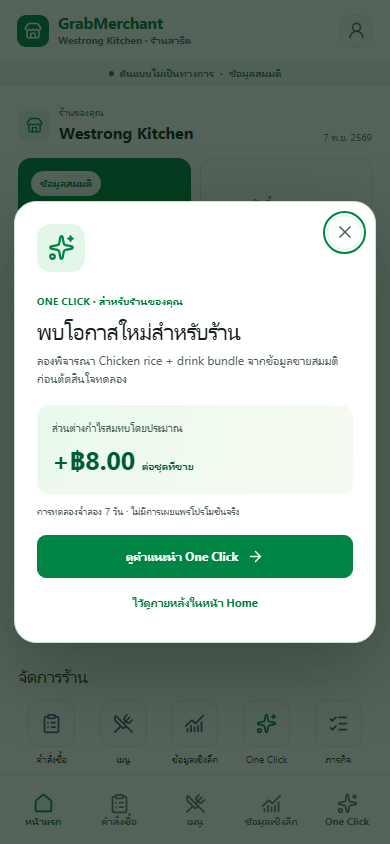
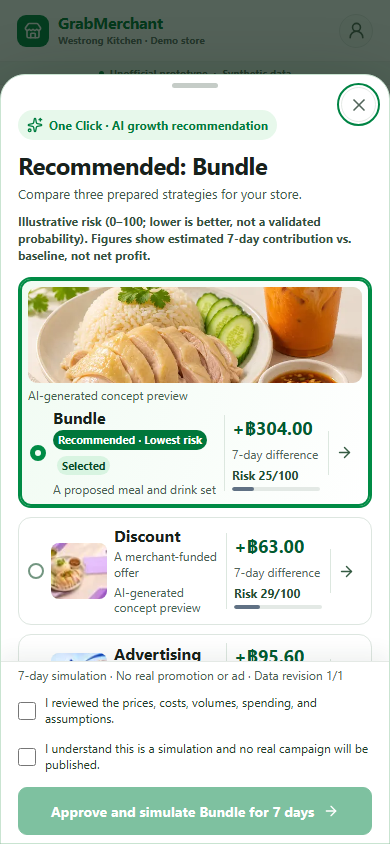
Highlight One Click opportunity and open recommendation on entry

diff --git a/frontend/components/judge-demo.tsx b/frontend/components/judge-demo.tsx
@@ -25,6 +25,7 @@ export function JudgeDemo() {
   const recommendationRef = useRef<HTMLDivElement>(null);
   useEffect(() => { setState(loadDemoState()); setLoaded(true); }, []);
   useEffect(() => { if (loaded) saveDemoState(state); }, [loaded, state]);
+  useEffect(() => { if (state.view === "c1-home") requestAnimationFrame(() => document.querySelector(".judge-main .home-for-you")?.scrollIntoView({ behavior: "auto", block: "start" })); }, [state.view]);
   useEffect(() => {
     if (state.view !== "recommendation") return;
     recommendationRef.current?.querySelector<HTMLButtonElement>("button")?.focus();
@@ -84,7 +85,7 @@ export function JudgeDemo() {
 
       </main>
       {state.view === "recommendation" && <div id="judge-consent-footer" className="judge-approval-footer"><small>7-day simulation · No real promotion or ad</small><label><input type="checkbox" checked={state.c1.consentInputs} onChange={event => update(old => ({ ...old, c1: { ...old.c1, consentInputs: event.target.checked } }))} /><span>I reviewed the prices, costs, volumes, spending, and assumptions.</span></label><label><input type="checkbox" checked={state.c1.consentSimulation} onChange={event => update(old => ({ ...old, c1: { ...old.c1, consentSimulation: event.target.checked } }))} /><span>I understand this is a simulation and no real campaign will be published.</span></label><button type="button" className="primary-button" disabled={!state.c1.consentInputs || !state.c1.consentSimulation || Boolean(state.c1.approved)} onClick={() => update(old => ({ ...old, view: "processing", c1: { ...old.c1, approved: old.c1.selected, resultReady: false, reviewed: false } }))}>{state.c1.approved ? "Mission already approved" : `Approve and simulate ${strategyNames[chosen.strategy_id]} for 7 days`} <ArrowRight size={16} /></button></div>}
-      <nav className="judge-bottom-nav" aria-label="Demo navigation"><button type="button" className={state.view === "home" ? "is-current" : ""} onClick={() => go("home")}>Home</button><button type="button" className={state.view.startsWith("c1") || ["recommendation", "comparison", "details", "processing", "results"].includes(state.view) ? "is-current" : ""} onClick={() => go(state.c1.resultReady ? "results" : state.c1.approved ? "processing" : "recommendation")}>One Click</button><button type="button" className={["connections", "workspace"].includes(state.view) ? "is-current" : ""} onClick={() => go("connections")}>Connector</button></nav>
+      <nav className="judge-bottom-nav" aria-label="Demo navigation"><button type="button" className={state.view === "home" || state.view === "c1-home" ? "is-current" : ""} onClick={() => go("home")}>Home</button><button type="button" className={["recommendation", "comparison", "details", "processing", "results"].includes(state.view) ? "is-current" : ""} onClick={() => go(state.c1.resultReady ? "results" : state.c1.approved ? "processing" : "recommendation")}>One Click</button><button type="button" className={["connections", "workspace"].includes(state.view) ? "is-current" : ""} onClick={() => go("connections")}>Connector</button></nav>
     </div><p className="judge-footer">GrabSpark 2026 · Unofficial concept preview</p>
   </div>;
 }
@@ -98,7 +99,7 @@ function JudgeMerchantHome({ approvedStrategy, resultReady, reviewed, onOneClick
     <div className="home-store-context"><div className="home-store-pick"><span className="home-store-icon"><Store size={17} /></span><span><small>Your store</small><strong>Westrong Kitchen</strong></span></div><span className="home-date">{thaiDate(dashboard.today.from)}</span></div>
     <section id="judge-orders" className="merchant-highlights" aria-label="Today's synthetic overview"><div className="highlight-orders"><span className="highlight-pill">Synthetic data</span><strong>{dashboard.today.orders}</strong><span>Completed orders today</span></div><div className="highlight-sales"><span>Sales today</span><strong>{baht(dashboard.today.gmv)}</strong><small>GMV · {dashboard.today.orders} orders</small></div></section>
     <div className="home-aov">Average order value <strong>{baht(dashboard.today.aov)}</strong></div>
-    <section className="home-for-you" aria-labelledby="judge-for-you-heading"><div className="home-feature-heading"><h2 id="judge-for-you-heading">For your store</h2><span>One Click</span></div><article className="home-recommendation"><div className="home-recommendation-top"><span className="native-ai-icon"><Sparkles size={18} /></span><span><strong>{approved ? "One Click · Simulated mission" : "One Click · New opportunity"}</strong><small>{approved ? reviewed ? "Result reviewed" : resultReady ? "Result ready for review" : "Approved in this demo session" : "Compare 3 strategies · 1 recommendation"}</small></span></div><div className="home-recommendation-visual"><StrategyVisual strategyId={approvedStrategy ?? recommendation.strategy_id} variant="hero" /><small>Concept only · Not an actual menu photo or published campaign</small></div><h3>{opportunityTitle}</h3><p>{approved ? "Your selected strategy stays in this browser session. No real promotion was published." : `Lowest illustrative modeled risk: ${recommendation.risk_score}/100`}</p><div className="home-recommendation-impact"><span>{approved ? "Mission status" : "Estimated 7-day contribution difference"}</span><strong className={approved ? "status-copy" : undefined}>{approved ? reviewed ? "Result reviewed" : resultReady ? "Simulated result ready" : "Approved for simulation" : baht(recommendation.estimated_difference, true)}</strong></div><button type="button" className="home-recommendation-link" onClick={onOneClick}>{actionLabel} <ArrowRight size={17} /></button><small className="home-recommendation-disclaimer">Simulation only · No real promotion is published</small></article></section>
+    <section className="home-for-you" aria-labelledby="judge-for-you-heading"><div className="home-feature-heading"><h2 id="judge-for-you-heading">For your store</h2><span>One Click</span></div><article className={`home-recommendation${approved ? "" : " is-opportunity"}`}><div className="home-recommendation-top"><span className="native-ai-icon"><Sparkles size={18} /></span><span><strong>{approved ? "One Click · Simulated mission" : "One Click · New opportunity"}</strong><small>{approved ? reviewed ? "Result reviewed" : resultReady ? "Result ready for review" : "Approved in this demo session" : "Compare 3 strategies · 1 recommendation"}</small></span></div><div className="home-recommendation-visual"><StrategyVisual strategyId={approvedStrategy ?? recommendation.strategy_id} variant="hero" /><small>Concept only · Not an actual menu photo or published campaign</small></div><h3>{opportunityTitle}</h3><p>{approved ? "Your selected strategy stays in this browser session. No real promotion was published." : `Lowest illustrative modeled risk: ${recommendation.risk_score}/100`}</p><div className="home-recommendation-impact"><span>{approved ? "Mission status" : "Estimated 7-day contribution difference"}</span><strong className={approved ? "status-copy" : undefined}>{approved ? reviewed ? "Result reviewed" : resultReady ? "Simulated result ready" : "Approved for simulation" : baht(recommendation.estimated_difference, true)}</strong></div><button type="button" className="home-recommendation-link" onClick={onOneClick}>{actionLabel} <ArrowRight size={17} /></button><small className="home-recommendation-disclaimer">Simulation only · No real promotion is published</small></article></section>
     <section className="merchant-shortcuts" aria-labelledby="judge-shortcuts-heading"><h2 id="judge-shortcuts-heading">Manage your store</h2><nav className="merchant-shortcut-grid" aria-label="Store shortcuts"><button type="button" onClick={() => jumpTo("judge-orders")}><span><ClipboardList size={21} /></span>Orders</button><button type="button" onClick={() => jumpTo("judge-menu")}><span><UtensilsCrossed size={21} /></span>Menu</button><button type="button" onClick={() => jumpTo("judge-insights")}><span><ChartNoAxesCombined size={21} /></span>Insights</button><button type="button" onClick={onOneClick}><span><Sparkles size={21} /></span>One Click</button><button type="button" onClick={onConnector}><span><Link2 size={21} /></span>AI Connections</button></nav></section>
     <section id="judge-insights" className="home-compact-section" aria-labelledby="judge-trend-heading"><div className="compact-heading"><div><span>INSIGHTS · SYNTHETIC</span><h2 id="judge-trend-heading">Sales over the past 6 months</h2></div></div><TrendBars months={dashboard.monthly_trend} /></section>
     <section id="judge-menu" className="home-compact-section" aria-labelledby="judge-top-heading"><div className="compact-heading"><div><span>TOP MENU ITEMS</span><h2 id="judge-top-heading">Popular items</h2></div></div><ol className="compact-ranking">{dashboard.top_items.slice(0, 3).map((item, index) => <li key={item.menu_item_id}><span className="rank">{index + 1}</span><span><strong>{item.name}</strong><small>{item.units} sold</small></span><b>{baht(item.gmv)}</b></li>)}</ol></section>

diff --git a/frontend/app/page.tsx b/frontend/app/page.tsx
@@ -33,7 +33,7 @@ export default async function Home({ searchParams }: { searchParams: Promise<{ o
     <section className="merchant-highlights" aria-label="Today's overview"><div className="highlight-orders"><span className="highlight-pill">Synthetic data</span><strong>{data.today.orders}</strong><span>Completed orders today</span></div><div className="highlight-sales"><span>Sales today</span><strong>{baht(data.today.gmv)}</strong><small>GMV · {data.today.orders} orders</small></div></section>
     <div className="home-aov">Average order value <strong>{baht(data.today.aov)}</strong></div>
 
-    <section className="home-for-you" aria-labelledby="for-you-heading"><div className="home-feature-heading"><h2 id="for-you-heading">For your store</h2><span>One Click</span></div><article className="home-recommendation"><div className="home-recommendation-top"><span className="native-ai-icon"><Sparkles size={18} /></span><span><strong>One Click · New opportunity</strong><small>Compare 3 strategies · 1 recommendation</small></span></div>{homeVisualStrategy && <div className="home-recommendation-visual"><StrategyVisual strategyId={homeVisualStrategy} variant="hero" /><small>Concept only · Not an actual menu photo or published campaign</small></div>}{data.opportunity ? <><h3>{recommendedCase?.strategy_id === "bundle" && /chicken rice.*drink/i.test(comparison?.proposed.label ?? "") ? "Try a chicken rice + drink bundle" : recommendedCase ? `Try ${recommendedCase.description.toLowerCase()}` : data.opportunity.title}</h3><p>{recommendedCase ? `Lowest illustrative modeled risk: ${recommendedCase.risk_score}/100` : data.opportunity.rationale}</p>{recommendedCase && <div className="home-recommendation-impact"><span>Estimated 7-day contribution difference</span><strong>{baht(recommendedCase.estimated_difference, true)}</strong></div>}<Link href={`/opportunity?id=${data.opportunity.id}`} className="home-recommendation-link">View recommendation <ArrowRight size={17} /></Link></> : latest ? <><h3>Track your mission</h3><p>{latest.title}</p><div className="home-recommendation-impact"><span>Status</span><strong className="status-copy">{latest.status === "completed" ? "Simulated result ready" : latest.status === "reviewed" ? "Simulated result reviewed" : latest.status === "approved" ? "Simulation approved" : latest.status}</strong></div><Link href={`/missions/${latest.id}`} className="home-recommendation-link">Track mission <ArrowRight size={17} /></Link></> : <><h3>No new opportunities</h3><p>Review previous simulated missions in One Click</p><Link href="/ai" className="home-recommendation-link">Open One Click <ArrowRight size={17} /></Link></>}<small className="home-recommendation-disclaimer">Simulation only · No real promotion is published</small></article></section>
+    <section className="home-for-you" aria-labelledby="for-you-heading"><div className="home-feature-heading"><h2 id="for-you-heading">For your store</h2><span>One Click</span></div><article className={`home-recommendation${data.opportunity ? " is-opportunity" : ""}`}><div className="home-recommendation-top"><span className="native-ai-icon"><Sparkles size={18} /></span><span><strong>One Click · New opportunity</strong><small>Compare 3 strategies · 1 recommendation</small></span></div>{homeVisualStrategy && <div className="home-recommendation-visual"><StrategyVisual strategyId={homeVisualStrategy} variant="hero" /><small>Concept only · Not an actual menu photo or published campaign</small></div>}{data.opportunity ? <><h3>{recommendedCase?.strategy_id === "bundle" && /chicken rice.*drink/i.test(comparison?.proposed.label ?? "") ? "Try a chicken rice + drink bundle" : recommendedCase ? `Try ${recommendedCase.description.toLowerCase()}` : data.opportunity.title}</h3><p>{recommendedCase ? `Lowest illustrative modeled risk: ${recommendedCase.risk_score}/100` : data.opportunity.rationale}</p>{recommendedCase && <div className="home-recommendation-impact"><span>Estimated 7-day contribution difference</span><strong>{baht(recommendedCase.estimated_difference, true)}</strong></div>}<Link href={`/opportunity?id=${data.opportunity.id}`} className="home-recommendation-link">View recommendation <ArrowRight size={17} /></Link></> : latest ? <><h3>Track your mission</h3><p>{latest.title}</p><div className="home-recommendation-impact"><span>Status</span><strong className="status-copy">{latest.status === "completed" ? "Simulated result ready" : latest.status === "reviewed" ? "Simulated result reviewed" : latest.status === "approved" ? "Simulation approved" : latest.status}</strong></div><Link href={`/missions/${latest.id}`} className="home-recommendation-link">Track mission <ArrowRight size={17} /></Link></> : <><h3>No new opportunities</h3><p>Review previous simulated missions in One Click</p><Link href="/ai" className="home-recommendation-link">Open One Click <ArrowRight size={17} /></Link></>}<small className="home-recommendation-disclaimer">Simulation only · No real promotion is published</small></article></section>
 
     <section className="merchant-shortcuts" aria-labelledby="shortcuts-heading"><h2 id="shortcuts-heading">Manage your store</h2><nav className="merchant-shortcut-grid" aria-label="Store shortcuts"><Link href="/orders"><span><ClipboardList size={21} /></span>Orders</Link><Link href="/menu"><span><UtensilsCrossed size={21} /></span>Menu</Link><Link href="/performance"><span><ChartNoAxesCombined size={21} /></span>Insights</Link><Link href="/ai"><span><Sparkles size={21} /></span>One Click</Link><Link href="/missions"><span><ListChecks size={21} /></span>Missions</Link></nav></section>
 

diff --git a/frontend/app/fidelity.css b/frontend/app/fidelity.css
@@ -13,6 +13,15 @@ body { font-family:"Leelawadee UI", "Noto Sans Thai", Tahoma, "Segoe UI", sans-s
 .home-recommendation-visual .strategy-visual.is-hero .strategy-visual-image { height:90px; }
 .home-recommendation-visual .strategy-visual-caption { font-size:12px; font-weight:700; }
 .home-recommendation-visual > small { display:block; margin-top:2px; color:#536b5b; font-size:12px; line-height:1.3; }
+.home-for-you:has(.is-opportunity) .home-feature-heading > span { padding:5px 9px; border-radius:20px; background:#e2f6e9; color:#006c35; font-weight:800; }
+.home-recommendation.is-opportunity { border:1.5px solid #28a65d; background:linear-gradient(145deg,#f3fcf5 0%,#fff 55%); box-shadow:0 7px 22px #16743c1c; }
+.home-recommendation.is-opportunity .home-recommendation-top strong { font-size:13px; font-weight:850; }
+.home-recommendation.is-opportunity h3 { font-size:18px; font-weight:800; }
+.home-recommendation.is-opportunity .home-recommendation-impact strong { font-size:20px; font-weight:850; }
+.home-recommendation.is-opportunity .home-recommendation-link { min-height:46px; margin-top:13px; padding:0 13px; border:1px solid #008442; border-radius:9px; background:#008742; color:#fff; font-size:13px; font-weight:800; }
+.home-recommendation.is-opportunity .home-recommendation-link:hover,.home-recommendation.is-opportunity .home-recommendation-link:focus-visible { background:#006d36; }
+.home-recommendation.is-opportunity .home-recommendation-link:focus-visible { outline:3px solid #004d29; outline-offset:2px; }
+.home-recommendation.is-opportunity .home-recommendation-disclaimer { margin-top:9px; }
 .merchant-shortcuts { margin-top:24px; }.merchant-shortcut-grid { display:grid; grid-template-columns:repeat(5,1fr); gap:4px; margin-top:13px; }.merchant-shortcut-grid a { display:flex; align-items:center; flex-direction:column; gap:6px; text-align:center; color:#2e3931; font-size:10px; line-height:1.25; }.merchant-shortcut-grid a > span { width:47px; height:47px; display:grid; place-items:center; border:1px solid #e1e6e2; border-radius:11px; color:#425977; background:#fff; }.merchant-shortcut-grid a:nth-child(4) > span { color:var(--green); }.merchant-shortcut-grid a:focus-visible > span,.merchant-shortcut-grid a:hover > span { border-color:var(--green); background:#f0faf2; }
 .home-compact-section { margin-top:28px; }.compact-heading h2 { font-size:17px; }.compact-heading span { font-size:10px; }.compact-ranking strong,.compact-ranking b { font-size:12px; }.compact-ranking small { font-size:10px; }.footnote { font-size:10px; }
 .native-page-header h1 { font-size:23px; }.native-page-header > p:last-child { font-size:12px; }.native-tabs a { font-size:12px; }.order-snapshot span:not(.order-snapshot-icon) { font-size:11px; }.order-snapshot strong { font-size:25px; }.native-list-row { font-size:12px; }.inline-limitation { font-size:11px; }.menu-overview-line { font-size:12px; }.menu-category-head h2 { font-size:16px; }.native-menu-item-copy strong { font-size:13px; }.native-menu-item-copy small,.availability { font-size:11px; }.native-menu-price { font-size:13px; }.insights-summary > span { font-size:12px; }.insights-summary > div span { font-size:11px; }.ai-native-opportunity h3 { font-size:17px; }.ai-native-opportunity p { font-size:12px; }.mission-row strong { font-size:12px; }.mission-row small { font-size:10px; }.journey-header h1,.tracking-page h1 { font-size:23px; }.journey-header p { font-size:12px; }.journey-panel h2,.outcome-section h2 { font-size:18px; }.journey-panel > p:not(.section-kicker) { font-size:12px; }.cost-field { font-size:12px; }

diff --git a/frontend/components/home-opportunity-popup.tsx b/frontend/components/home-opportunity-popup.tsx
@@ -41,15 +41,11 @@ export function HomeOpportunityPopup({ mission, initialComparison, initialEvalua
   const closeRef = useRef<HTMLButtonElement>(null);
   const dialogRef = useRef<HTMLDivElement>(null);
   const bodyRef = useRef<HTMLDivElement>(null);
-  const storageKey = `grabspark:opportunity-popup:${mission.id}`;
   const path = `/missions/${mission.id}`;
   const recommended = evaluation.strategies.find(item => item.strategy_id === evaluation.recommended_strategy_id)!;
   const detail = evaluation.strategies.find(item => item.strategy_id === detailStrategy)!;
 
-  useEffect(() => {
-    try { if (forceOpen || sessionStorage.getItem(storageKey) !== "dismissed") setOpen(true); }
-    catch { setOpen(true); }
-  }, [forceOpen, storageKey]);
+  useEffect(() => { setOpen(true); }, [mission.id]);
   useEffect(() => {
     if (!open) return;
     const main = document.querySelector(".app-main");
@@ -66,11 +62,10 @@ export function HomeOpportunityPopup({ mission, initialComparison, initialEvalua
     document.addEventListener("keydown", onKeyDown);
     return () => { main?.classList.remove("has-opportunity-popup"); document.removeEventListener("keydown", onKeyDown); };
   }, [open]);
-  function remember() { try { sessionStorage.setItem(storageKey, "dismissed"); } catch { /* Storage may be unavailable. */ } }
   function dismiss() {
-    remember(); setOpen(false);
+    setOpen(false);
     if (forceOpen) router.replace("/");
-    requestAnimationFrame(() => { document.querySelector(".home-for-you")?.scrollIntoView({ behavior: "smooth", block: "start" }); document.querySelector<HTMLElement>(".home-recommendation-link")?.focus({ preventScroll: true }); });
+    requestAnimationFrame(() => { document.querySelector(".home-for-you")?.scrollIntoView({ behavior: "auto", block: "start" }); document.querySelector<HTMLElement>(".home-recommendation-link")?.focus({ preventScroll: true }); });
   }
   function show(next: View, strategy?: StrategyId) { if (strategy) setDetailStrategy(strategy); setError(""); setView(next); bodyRef.current?.scrollTo({ top: 0 }); }
   async function refresh() {
@@ -111,7 +106,7 @@ export function HomeOpportunityPopup({ mission, initialComparison, initialEvalua
     setBusy(true); setError(""); approvalKey.current ??= crypto.randomUUID();
     try {
       await merchantRequest<Mission>(`${path}/approve`, { method: "POST", idempotencyKey: approvalKey.current, body: { reviewed_revision: evaluation.scenario_revision, evaluation_revision: evaluation.evaluation_revision, selected_strategy_id: selected, confirm_material_inputs: true, acknowledge_simulation: true } });
-      remember(); router.push(path); router.refresh();
+      router.push(path); router.refresh();
     } catch (cause) {
       if (cause instanceof MerchantApiError && cause.status === 409) await refreshAfterConflict("Mission data changed. Review the latest evaluation and confirm again.");
       else setError(cause instanceof Error ? cause.message : "Could not approve the simulated trial.");

diff --git a/frontend/demo/state.ts b/frontend/demo/state.ts
@@ -11,7 +11,7 @@ export type DemoState = {
 
 const key = "grabspark:judge-demo:v1";
 export const initialDemoState: DemoState = {
-  view: "home",
+  view: "recommendation",
   c1: { selected: "bundle", detail: "bundle", consentInputs: false, consentSimulation: false, approved: null, resultReady: false, reviewed: false },
   c2: { client: null, scopes: [], grantedScopes: [], status: "not_connected", asked: false, lastPrompt: "", draftReviewed: false },
 };
@@ -28,7 +28,8 @@ export function loadDemoState(): DemoState {
     const value = JSON.parse(raw) as DemoState;
     if (!views.includes(value.view) || !strategies.includes(value.c1.selected) || !strategies.includes(value.c1.detail) || (value.c1.approved !== null && !strategies.includes(value.c1.approved)) || typeof value.c1.resultReady !== "boolean" || typeof value.c1.reviewed !== "boolean" || ((value.view === "processing" || value.view === "results") && !value.c1.approved) || (value.c1.reviewed && !value.c1.resultReady) || (value.view === "results" && !value.c1.resultReady) || (value.c2.client !== null && !clients.includes(value.c2.client)) || !["not_connected", "connected", "revoked"].includes(value.c2.status) || !Array.isArray(value.c2.scopes) || !value.c2.scopes.every(scope => scopes.includes(scope)) || !Array.isArray(value.c2.grantedScopes) || !value.c2.grantedScopes.every(scope => scopes.includes(scope))) return initialDemoState;
     if (value.c2.status === "connected" && (!value.c2.client || value.c2.grantedScopes.length === 0)) return initialDemoState;
-    return { ...value, c2: { ...value.c2, lastPrompt: typeof value.c2.lastPrompt === "string" ? value.c2.lastPrompt.slice(0, 500) : "" } };
+    const reopenRecommendation = (value.view === "home" || value.view === "c1-home") && !value.c1.approved;
+    return { ...value, view: reopenRecommendation ? "recommendation" : value.view, c2: { ...value.c2, lastPrompt: typeof value.c2.lastPrompt === "string" ? value.c2.lastPrompt.slice(0, 500) : "" } };
   } catch { return initialDemoState; }
 }
 

diff --git a/frontend/app/judge-demo.css b/frontend/app/judge-demo.css
@@ -21,6 +21,7 @@
 .judge-page,.judge-recommendation { padding:20px 18px 28px; }
 .judge-merchant-home { min-height:100%; background:#fff; }
 .judge-merchant-home .home-recommendation-link { width:100%; padding:0; border:0; background:none; text-align:left; cursor:pointer; }
+.judge-merchant-home .home-recommendation.is-opportunity .home-recommendation-link { padding:0 13px; border:1px solid #008442; background:#008742; color:#fff; }
 .judge-merchant-home .merchant-shortcut-grid button { display:flex; align-items:center; flex-direction:column; gap:6px; min-width:0; padding:0; border:0; background:none; color:#2e3931; text-align:center; font:inherit; font-size:10px; line-height:1.25; cursor:pointer; }
 .judge-merchant-home .merchant-shortcut-grid button > span { display:grid; place-items:center; width:47px; height:47px; border:1px solid #e1e6e2; border-radius:11px; color:#425977; background:#fff; }
 .judge-merchant-home .merchant-shortcut-grid button:nth-child(4) > span { color:var(--green); }
@@ -37,6 +38,7 @@
 .judge-eyebrow { color:#096b37; font-size:12px; font-weight:800; letter-spacing:.06em; }
 .judge-lead { margin:5px 0 17px; color:#455d4b; font-size:14px; }
 .judge-back { display:flex; align-items:center; gap:6px; width:max-content; min-height:40px; margin:-5px 0 14px; padding:0; border:0; color:var(--green-dark); background:none; font-size:13px; font-weight:700; cursor:pointer; }
+.judge-back:focus-visible { outline:3px solid #087d3c; outline-offset:2px; border-radius:5px; }
 .judge-page .primary-button,.judge-page .secondary-button { display:flex; justify-content:center; align-items:center; gap:8px; width:100%; min-height:47px; margin:16px 0 0; }
 .judge-text-button { display:block; width:100%; min-height:44px; border:0; color:var(--green-dark); background:none; font-weight:750; cursor:pointer; }
 .judge-disclosure { color:#4d6554; font-size:12px; }
